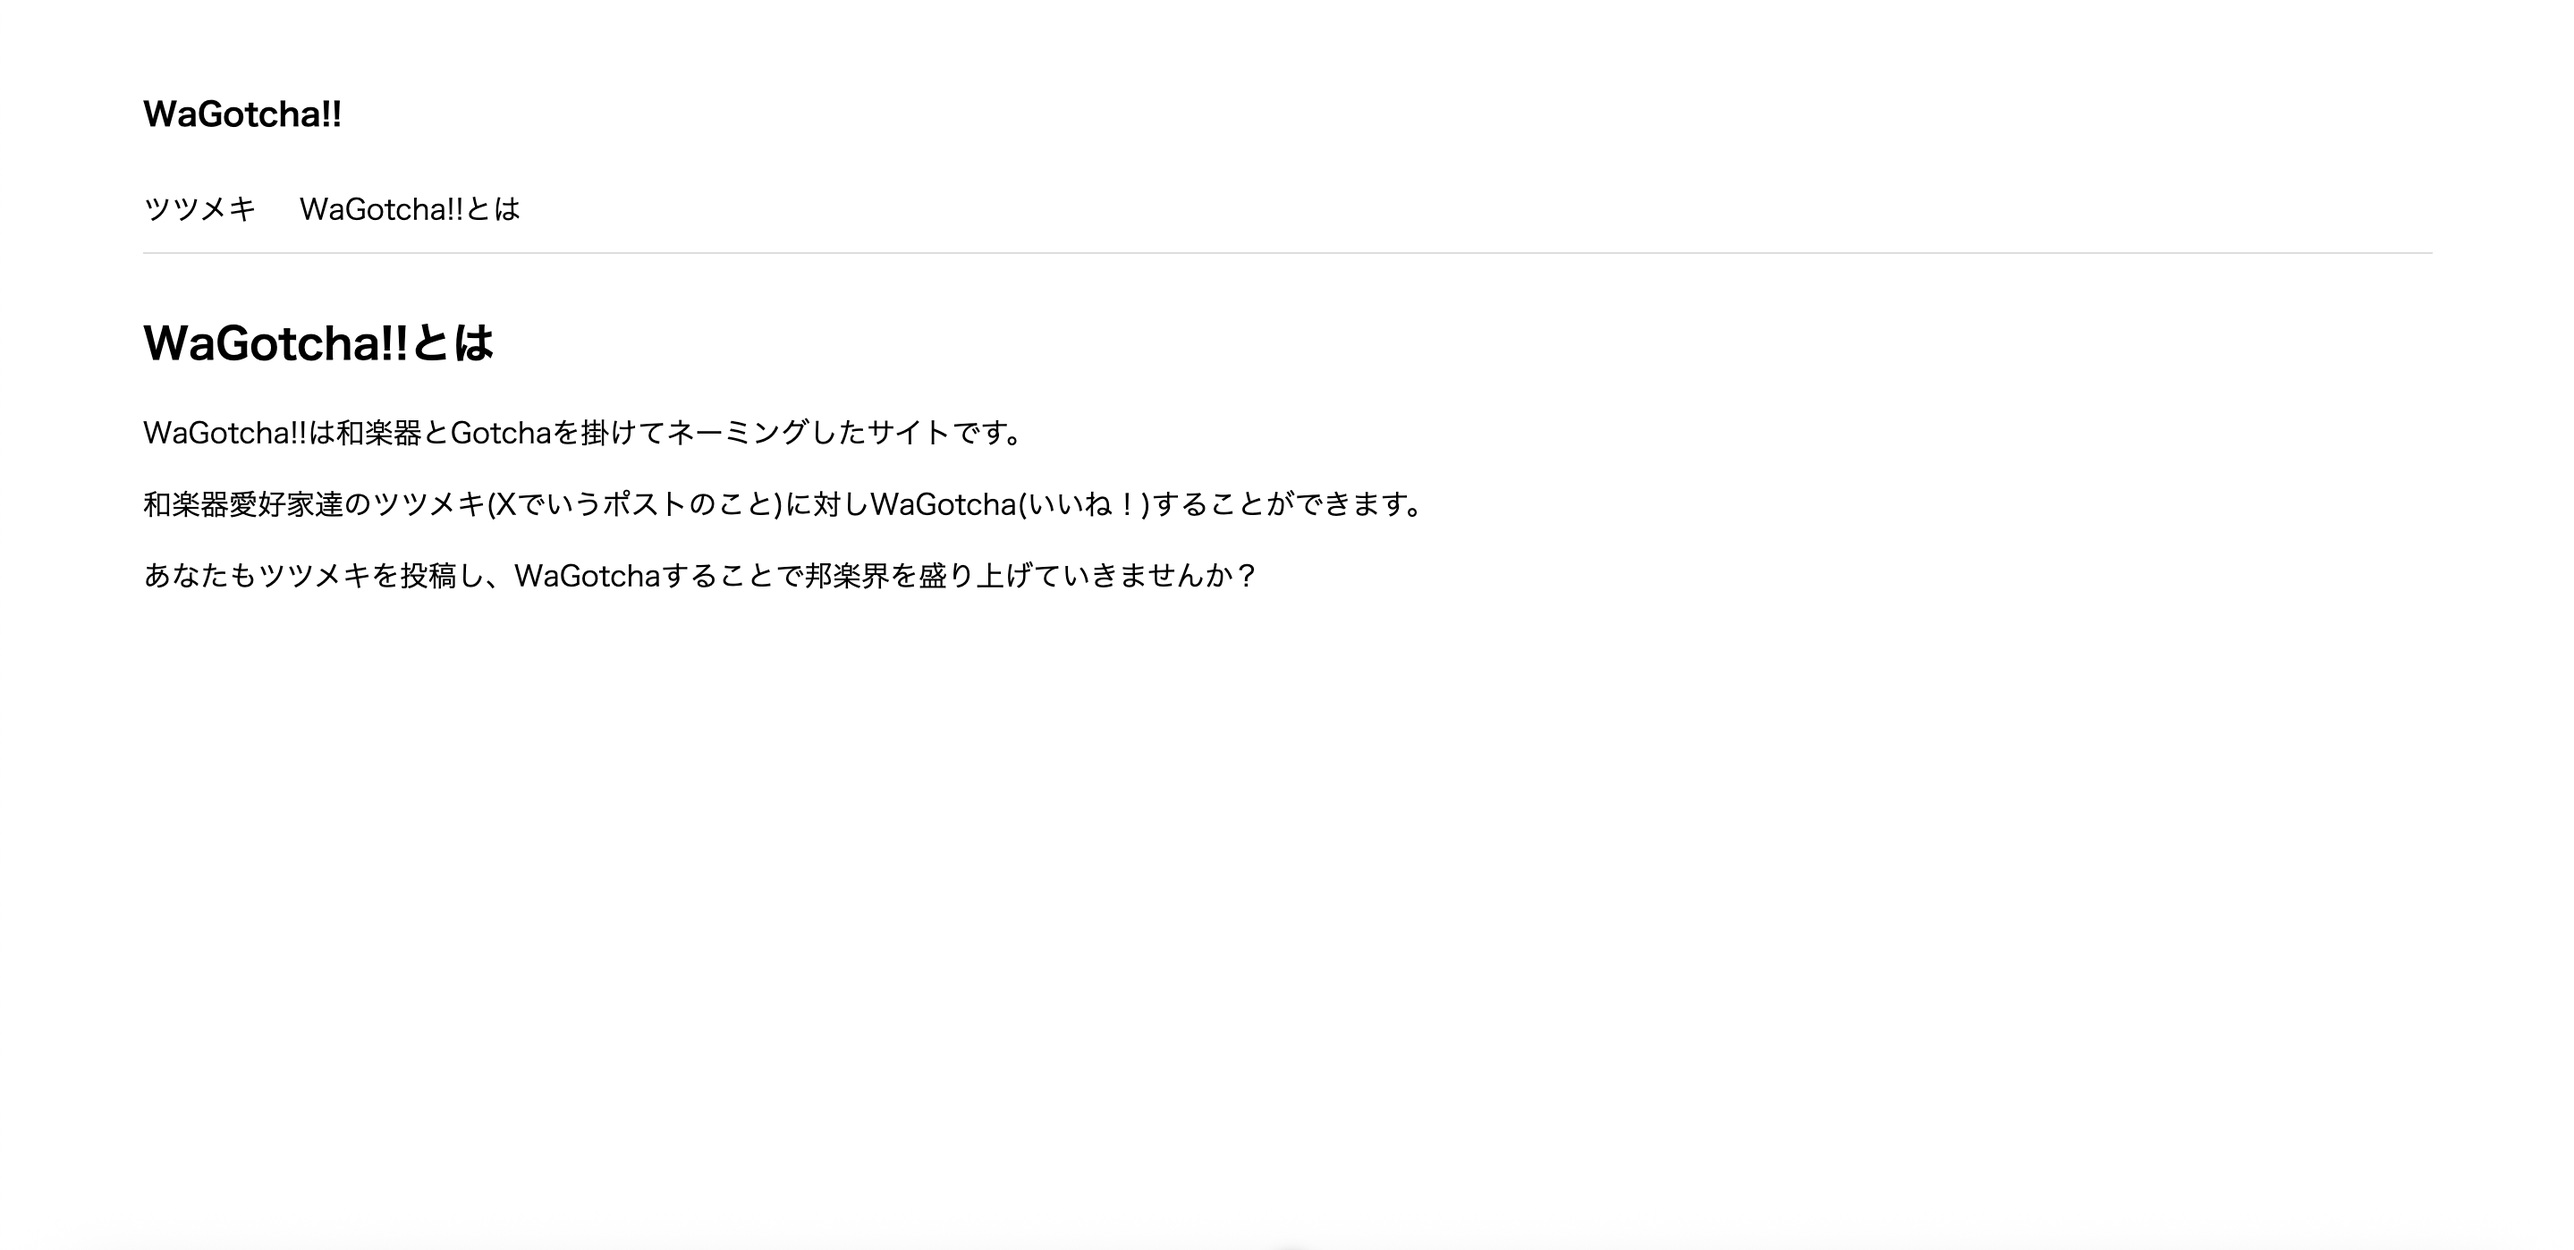
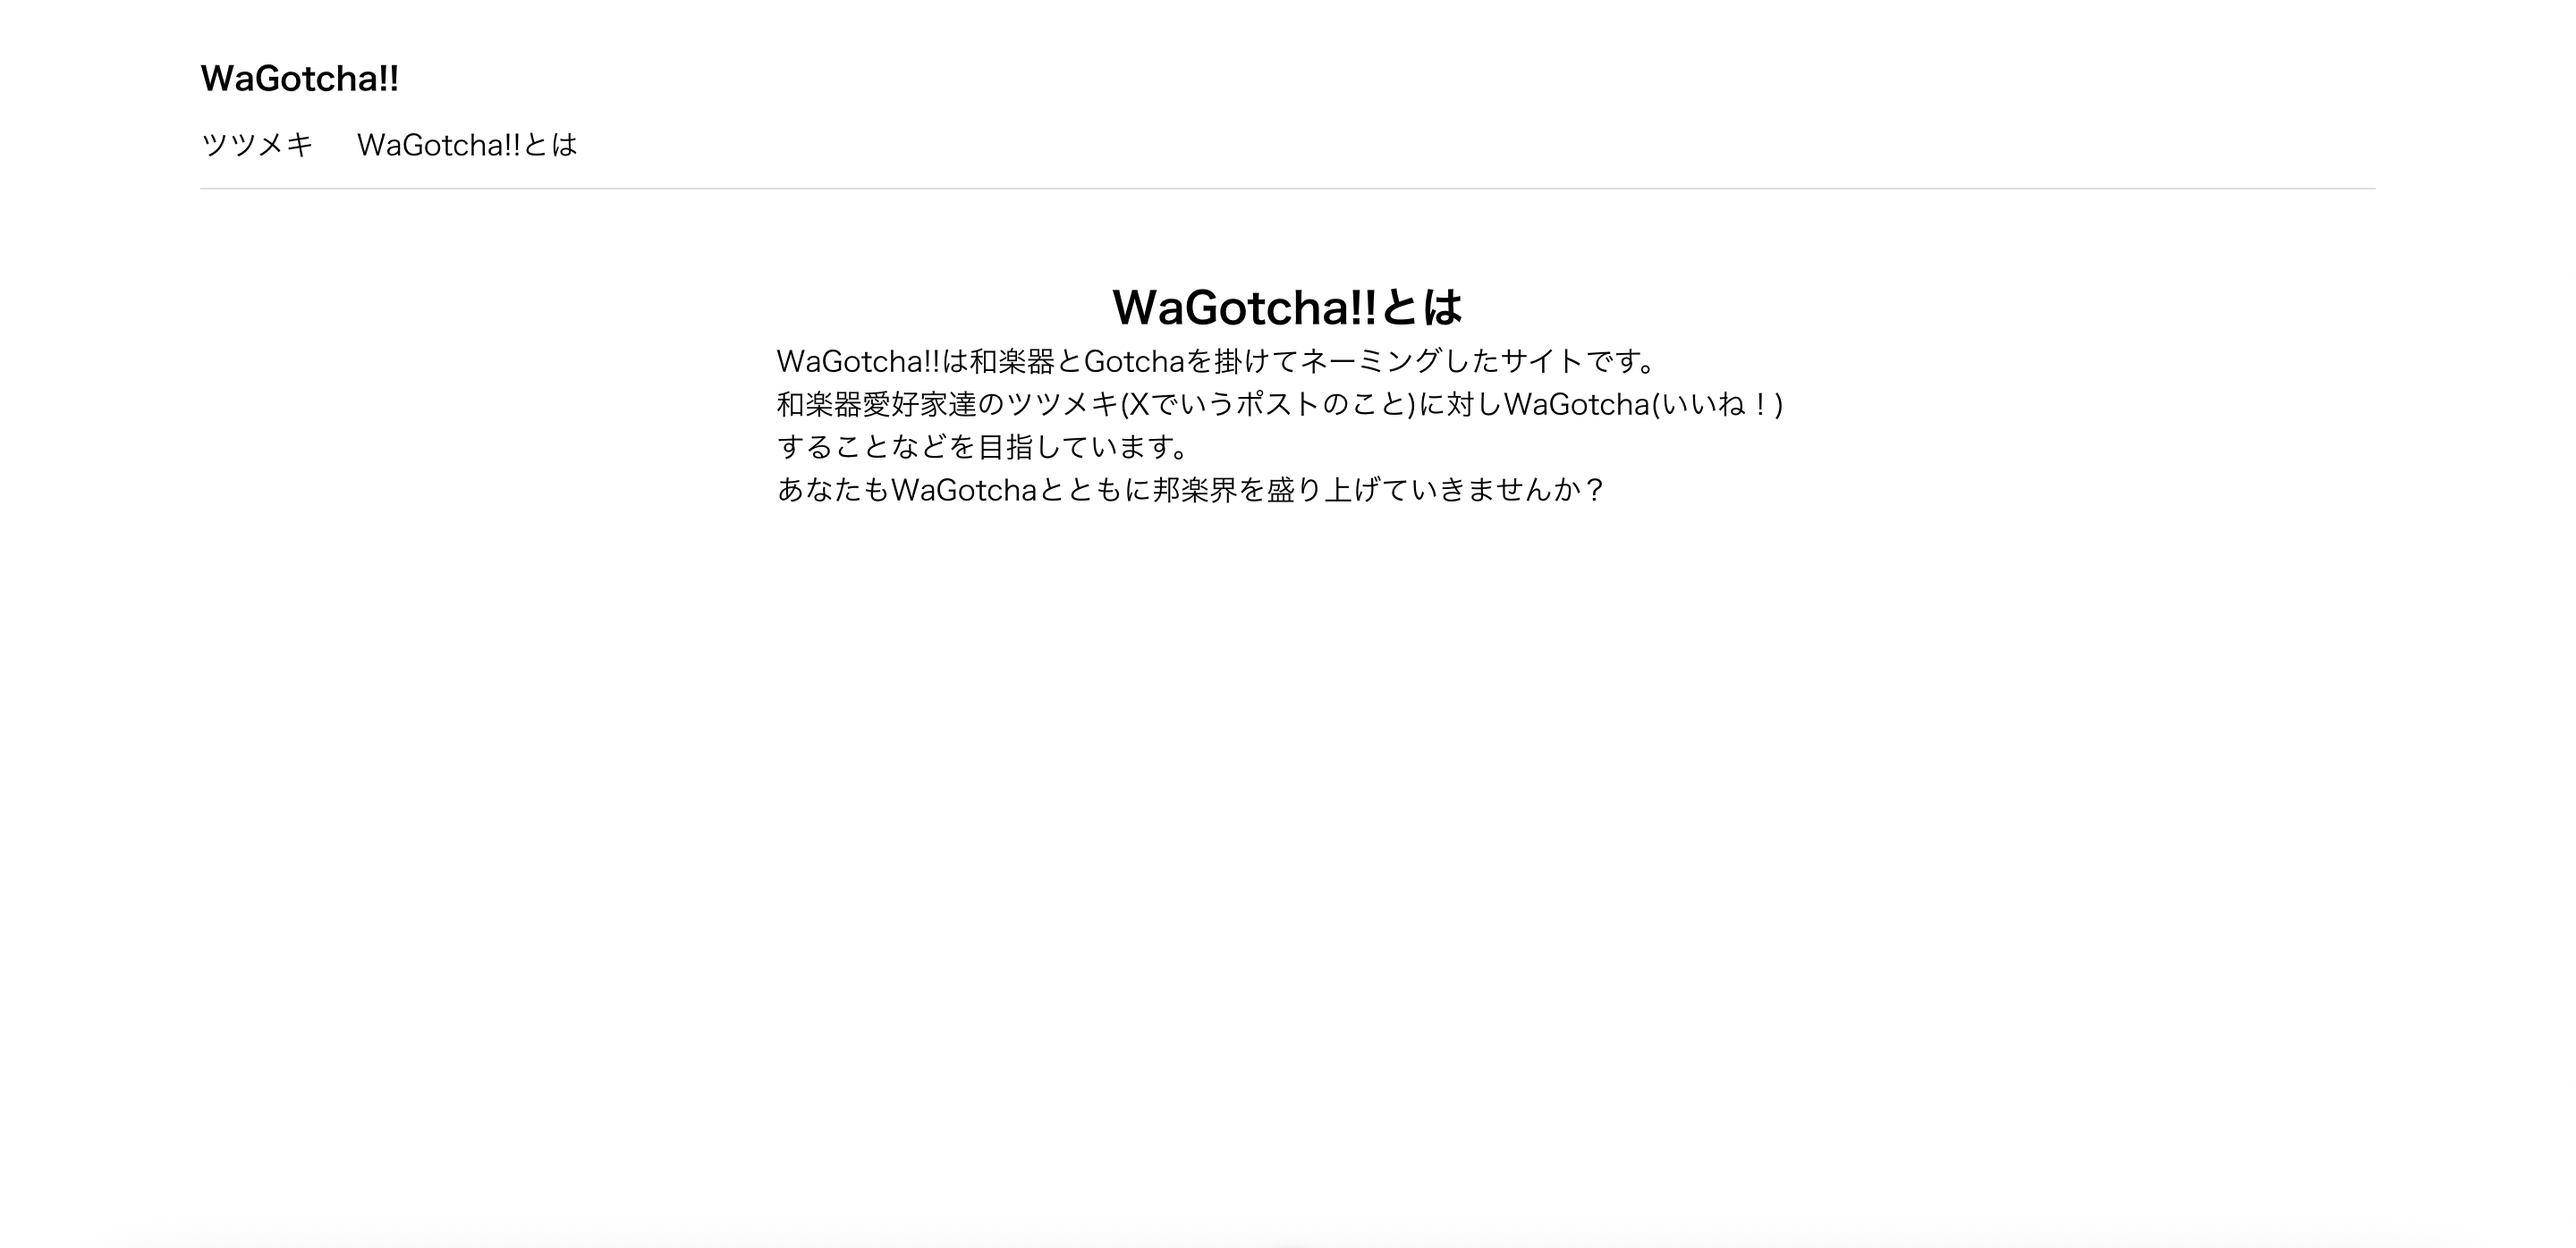
Update:レスポンシブ対応の導入

diff --git a/front/src/components/Tsutsumeki.vue b/front/src/components/Tsutsumeki.vue
@@ -43,25 +43,37 @@ function clickWaGotcha(index){
 }
 </script>
 <template>
-    <h1>ツツメキ</h1>
-    <div class="Tsutsumeki-create">
-        <textarea v-model="inputText" class="Tsutsumeki-text" maxlength="140" placeholder="ツツメキしてWaGotchaしてもらおう！">
-        </textarea>
-        <v-btn size="small" variant="outlined" color="primary" @click="addTsutsumeki">ツツメキ</v-btn>
-    </div>
-    <div class="Tsutsumeki-posted" v-for="(tsutsumeki, index) in tsutsumekis">
-        <div v-if="editingIndex !== index">
-            <p class="Tsutsumeki-words">{{ tsutsumeki.tsutsumeki }}</p>
-            <v-btn size="x-small" variant="outlined" color="primary" class="WaGotcha" @click="clickWaGotcha(index)"
-            :class= "{active: clickedIndices.has(tsutsumeki.id)}"
-            >WaGotcha</v-btn>
-            <v-btn size="x-small" variant="outlined" color="success" @click="editTsutsumeki(index)">改む</v-btn>
-            <v-btn size="x-small" variant="outlined" color="error" @click="deleteTsutsumeki(index)">消つ</v-btn>
-        </div>
-        <div v-else>
-            <textarea v-model="tsutsumekis[index].tsutsumeki" class="Tsutsumeki-text Aratamu-text" maxlength="140"></textarea>
-            <v-btn size="x-small" variant="outlined" color="primary" @click="completeEdittingTsutsumeki(index)">記す</v-btn>
-            <v-btn size="x-small" variant="outlined" color="error" @click="quitEdittingTsutsumeki(index)">辞む</v-btn>
-        </div>
-    </div>
+    <v-container>
+        <v-row justify="center">
+            <v-col cols="12" sm="10" md="8" lg="6">
+                <h1 class="text-h5 text-sm-h4 text-center">ツツメキ</h1>
+                <div class="Tsutsumeki-create">
+                    <textarea v-model="inputText" class="Tsutsumeki-text"
+                    maxlength="140" placeholder="ツツメキしてWaGotchaしてもらおう！" rows="2">
+                    </textarea>
+                    <v-btn size="small" variant="outlined"
+                    color="primary" @click="addTsutsumeki">ツツメキ</v-btn>
+                </div>
+                <div class="Tsutsumeki-posted" v-for="(tsutsumeki, index) in tsutsumekis">
+                    <div v-if="editingIndex !== index">
+                        <p class="Tsutsumeki-words">{{ tsutsumeki.tsutsumeki }}</p>
+                        <v-btn size="x-small" variant="outlined"
+                        color="primary" class="WaGotcha" @click="clickWaGotcha(index)"
+                        :class= "{active: clickedIndices.has(tsutsumeki.id)}"
+                        >WaGotcha</v-btn>
+                        <v-btn size="x-small" variant="outlined" color="success" @click="editTsutsumeki(index)">改む</v-btn>
+                        <v-btn size="x-small" variant="outlined" color="error" @click="deleteTsutsumeki(index)">消つ</v-btn>
+                    </div>
+                    <div v-else>
+                        <textarea v-model="tsutsumekis[index].tsutsumeki"
+                        class="Tsutsumeki-text Aratamu-text" maxlength="140" rows="2"></textarea>
+                        <v-btn size="x-small" variant="outlined" color="primary"
+                        @click="completeEdittingTsutsumeki(index)">記す</v-btn>
+                        <v-btn size="x-small" variant="outlined" color="error"
+                        @click="quitEdittingTsutsumeki(index)">辞む</v-btn>
+                    </div>
+                </div>
+            </v-col>
+        </v-row>
+    </v-container>
 </template>

diff --git a/front/src/assets/main.css b/front/src/assets/main.css
@@ -32,18 +32,28 @@ nav a:hover {
 }
 
 .Tsutsumeki-create{
-  width: 300px;
-  height: 240px;
-  margin: 5px;
+  width: 100%;
+  margin:10px 0;
   border:none;
+  display:flex;
+  flex-direction: column;
+  gap: 10px;
 }
 
 .Tsutsumeki-text{
-  width: 305px;
+  width:100%;
   height: 200px;
-  color: #000000;
-  border: 1px solid#000000;
+  padding: 10px;
+  font-size: 1rem;
+  border: 1px solid #000000;
   resize: none;
+  box-sizing: border-box;
+}
+
+@media (min-width: 600px) {
+  .Tsutsumeki-text{
+    font-size:1,2rem;
+  }
 }
 
 .Tsutsumeki-text::placeholder{
@@ -51,19 +61,42 @@ nav a:hover {
 }
 
 .Tsutsumeki-posted{
-  width: 308px;
-  border:solid;
-  color: #d3d3d3;
-  margin: 0 0 -1px;
-  resize: none;
+  width:100%;
+  padding: 10px;
+  margin-bottom: 16px;
+  font-size: 1rem;
+  border: 1px solid #000000;
+  border-radius: 6px;
+  box-sizing: border-box;
+  background-color:#f9f9f9;
+}
+
+@media (min-width: 600px) {
+  .Tsutsumeki-posted{
+    font-size:1,2rem;
+  }
 }
 
 .Tsutsumeki-words{
+  margin-bottom: 8px;
   color: #000000;
+  white-space: pre-wrap;
+  word-wrap: break-word;
 }
 
 .Aratamu-text{
-  border:none;
+  width: 100%;
+  padding: 8px;
+  font-size: 1rem;
+  border: 1px solid #000000;
+  resize: vertical;
+  box-sizing: border-box;
+}
+
+@media (min-width: 600px){
+  .Aratamu-text {
+    font-size: 1.2rem;
+  }
 }
 
 .WaGotcha.active{

diff --git a/front/src/components/About.vue b/front/src/components/About.vue
@@ -1,8 +1,14 @@
 <script setup>
 </script>
 <template>
-    <h1>WaGotcha!!とは</h1>
-    <p>WaGotcha!!は和楽器とGotchaを掛けてネーミングしたサイトです。</p>
-    <p>和楽器愛好家達のツツメキ(Xでいうポストのこと)に対しWaGotcha(いいね！)することができます。</p>
-    <p>あなたもツツメキを投稿し、WaGotchaすることで邦楽界を盛り上げていきませんか？</p>
+    <v-container>
+        <v-row justify="center">
+            <v-col cols="12" sm="10" md="8" lg="6">
+                <h1 class="text-center">WaGotcha!!とは</h1>
+                <p>WaGotcha!!は和楽器とGotchaを掛けてネーミングしたサイトです。</p>
+                <p >和楽器愛好家達のツツメキ(Xでいうポストのこと)に対しWaGotcha(いいね！)することなどを目指しています。</p>
+                <p>あなたもWaGotchaとともに邦楽界を盛り上げていきませんか？</p>
+            </v-col>
+        </v-row>
+    </v-container>
 </template>
